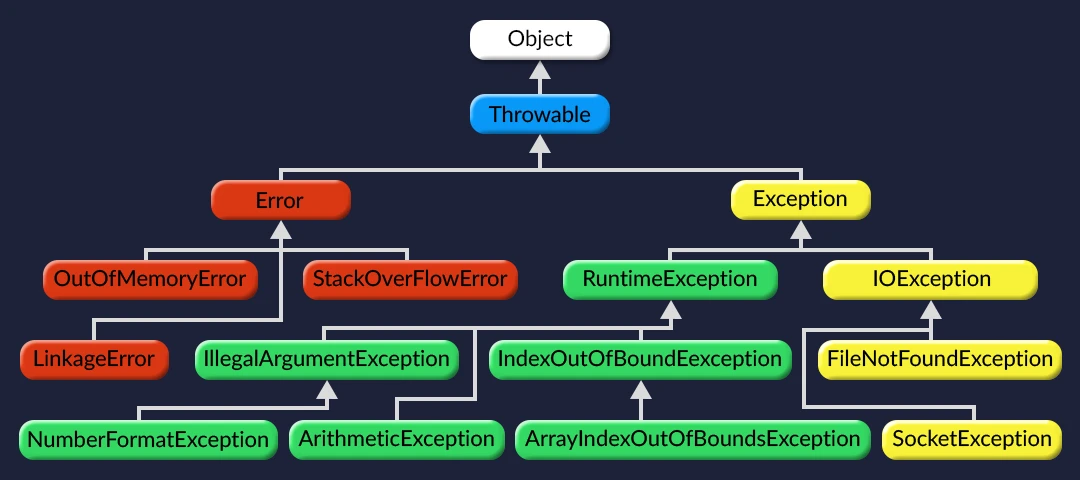
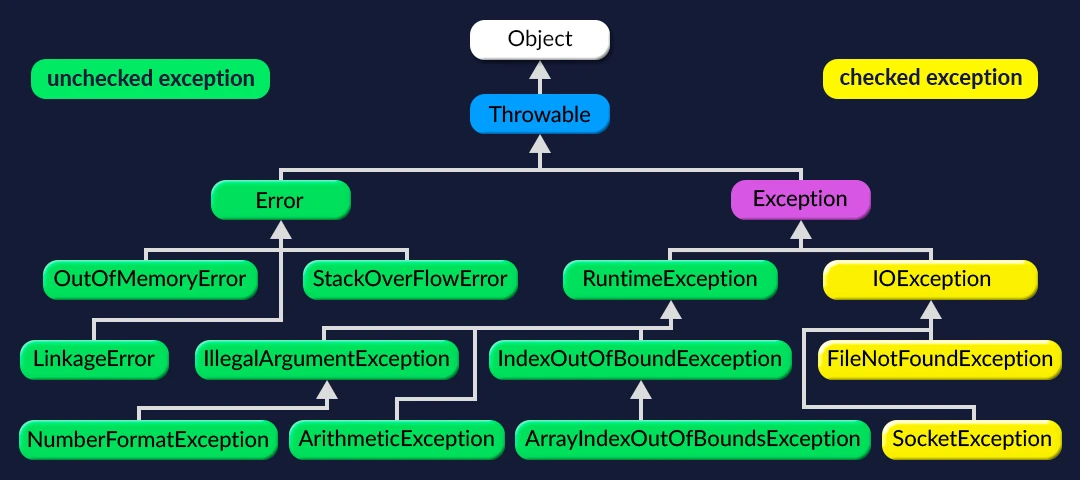
Site updated: 2021-03-08 20:05:41

diff --git a/c2b6c13e/index.html b/c2b6c13e/index.html
@@ -36,8 +36,10 @@
 <meta property="og:description" content="对Java异常学习和研究">
 <meta property="og:locale" content="zh_CN">
 <meta property="og:image" content="https://mihaoyoung.github.io/c2b6c13e/1080.webp">
+<meta property="og:image" content="https://mihaoyoung.github.io/c2b6c13e/1080.webp">
+<meta property="og:image" content="https://mihaoyoung.github.io/c2b6c13e/1080.webp">
 <meta property="article:published_time" content="2021-03-04T14:50:04.000Z">
-<meta property="article:modified_time" content="2021-03-07T16:00:16.038Z">
+<meta property="article:modified_time" content="2021-03-08T12:05:27.657Z">
 <meta property="article:author" content="Mihao">
 <meta property="article:tag" content="Java">
 <meta property="article:tag" content="异常">
@@ -224,7 +226,7 @@
 
       <!--noindex-->
       <section class="post-toc-wrap sidebar-panel">
-          <div class="post-toc animated"><ol class="nav"><li class="nav-item nav-level-1"><a class="nav-link" href="#%E6%A6%82%E5%BF%B5"><span class="nav-number">1.</span> <span class="nav-text">概念</span></a></li><li class="nav-item nav-level-1"><a class="nav-link" href="#%E5%9F%BA%E6%9C%AC%E5%BC%82%E5%B8%B8"><span class="nav-number">2.</span> <span class="nav-text">基本异常</span></a><ol class="nav-child"><li class="nav-item nav-level-2"><a class="nav-link" href="#%E5%BC%82%E5%B8%B8%E5%8F%82%E6%95%B0"><span class="nav-number">2.1.</span> <span class="nav-text">异常参数</span></a></li></ol></li><li class="nav-item nav-level-1"><a class="nav-link" href="#%E6%8D%95%E8%8E%B7%E5%BC%82%E5%B8%B8"><span class="nav-number">3.</span> <span class="nav-text">捕获异常</span></a><ol class="nav-child"><li class="nav-item nav-level-2"><a class="nav-link" href="#try%E5%9D%97"><span class="nav-number">3.1.</span> <span class="nav-text">try块</span></a></li><li class="nav-item nav-level-2"><a class="nav-link" href="#%E5%BC%82%E5%B8%B8%E5%A4%84%E7%90%86%E7%A8%8B%E5%BA%8F"><span class="nav-number">3.2.</span> <span class="nav-text">异常处理程序</span></a></li></ol></li><li class="nav-item nav-level-1"><a class="nav-link" href="#%E5%88%9B%E5%BB%BA%E8%87%AA%E5%AE%9A%E4%B9%89%E5%BC%82%E5%B8%B8"><span class="nav-number">4.</span> <span class="nav-text">创建自定义异常</span></a></li><li class="nav-item nav-level-1"><a class="nav-link" href="#%E5%BC%82%E5%B8%B8%E8%AF%B4%E6%98%8E"><span class="nav-number">5.</span> <span class="nav-text">异常说明</span></a></li><li class="nav-item nav-level-1"><a class="nav-link" href="#%E6%8D%95%E8%8E%B7%E6%89%80%E6%9C%89%E5%BC%82%E5%B8%B8"><span class="nav-number">6.</span> <span class="nav-text">捕获所有异常</span></a><ol class="nav-child"><li class="nav-item nav-level-2"><a class="nav-link" href="#%E6%A0%88%E8%BD%A8%E8%BF%B9"><span class="nav-number">6.1.</span> <span class="nav-text">栈轨迹</span></a></li></ol></li><li class="nav-item nav-level-1"><a class="nav-link" href="#%E6%84%9F%E8%B0%A2"><span class="nav-number">7.</span> <span class="nav-text">感谢</span></a></li></ol></div>
+          <div class="post-toc animated"><ol class="nav"><li class="nav-item nav-level-1"><a class="nav-link" href="#%E6%A6%82%E5%BF%B5"><span class="nav-number">1.</span> <span class="nav-text">概念</span></a></li><li class="nav-item nav-level-1"><a class="nav-link" href="#%E5%9F%BA%E6%9C%AC%E5%BC%82%E5%B8%B8"><span class="nav-number">2.</span> <span class="nav-text">基本异常</span></a><ol class="nav-child"><li class="nav-item nav-level-2"><a class="nav-link" href="#%E5%BC%82%E5%B8%B8%E5%8F%82%E6%95%B0"><span class="nav-number">2.1.</span> <span class="nav-text">异常参数</span></a></li></ol></li><li class="nav-item nav-level-1"><a class="nav-link" href="#%E6%8D%95%E8%8E%B7%E5%BC%82%E5%B8%B8"><span class="nav-number">3.</span> <span class="nav-text">捕获异常</span></a><ol class="nav-child"><li class="nav-item nav-level-2"><a class="nav-link" href="#try%E5%9D%97"><span class="nav-number">3.1.</span> <span class="nav-text">try块</span></a></li><li class="nav-item nav-level-2"><a class="nav-link" href="#%E5%BC%82%E5%B8%B8%E5%A4%84%E7%90%86%E7%A8%8B%E5%BA%8F"><span class="nav-number">3.2.</span> <span class="nav-text">异常处理程序</span></a></li></ol></li><li class="nav-item nav-level-1"><a class="nav-link" href="#%E5%88%9B%E5%BB%BA%E8%87%AA%E5%AE%9A%E4%B9%89%E5%BC%82%E5%B8%B8"><span class="nav-number">4.</span> <span class="nav-text">创建自定义异常</span></a></li><li class="nav-item nav-level-1"><a class="nav-link" href="#%E5%BC%82%E5%B8%B8%E8%AF%B4%E6%98%8E"><span class="nav-number">5.</span> <span class="nav-text">异常说明</span></a></li><li class="nav-item nav-level-1"><a class="nav-link" href="#%E6%8D%95%E8%8E%B7%E6%89%80%E6%9C%89%E5%BC%82%E5%B8%B8"><span class="nav-number">6.</span> <span class="nav-text">捕获所有异常</span></a><ol class="nav-child"><li class="nav-item nav-level-2"><a class="nav-link" href="#%E6%A0%88%E8%BD%A8%E8%BF%B9"><span class="nav-number">6.1.</span> <span class="nav-text">栈轨迹</span></a></li><li class="nav-item nav-level-2"><a class="nav-link" href="#%E9%87%8D%E6%96%B0%E6%8A%9B%E5%87%BA%E5%BC%82%E5%B8%B8"><span class="nav-number">6.2.</span> <span class="nav-text">重新抛出异常</span></a></li><li class="nav-item nav-level-2"><a class="nav-link" href="#%E5%BC%82%E5%B8%B8%E9%93%BE"><span class="nav-number">6.3.</span> <span class="nav-text">异常链</span></a></li></ol></li><li class="nav-item nav-level-1"><a class="nav-link" href="#%E6%A0%87%E5%87%86%E5%BC%82%E5%B8%B8"><span class="nav-number">7.</span> <span class="nav-text">标准异常</span></a></li><li class="nav-item nav-level-1"><a class="nav-link" href="#finally"><span class="nav-number">8.</span> <span class="nav-text">finally</span></a></li><li class="nav-item nav-level-1"><a class="nav-link" href="#%E6%9E%84%E9%80%A0%E5%99%A8"><span class="nav-number">9.</span> <span class="nav-text">构造器</span></a></li><li class="nav-item nav-level-1"><a class="nav-link" href="#%E5%BC%82%E5%B8%B8%E5%8C%B9%E9%85%8D"><span class="nav-number">10.</span> <span class="nav-text">异常匹配</span></a></li><li class="nav-item nav-level-1"><a class="nav-link" href="#%E6%84%9F%E8%B0%A2"><span class="nav-number">11.</span> <span class="nav-text">感谢</span></a></li></ol></div>
       </section>
       <!--/noindex-->
 
@@ -357,7 +359,7 @@
           <i class="far fa-calendar-check"></i>
         </span>
         <span class="post-meta-item-text">更新于</span>
-        <time title="修改时间：2021-03-08 00:00:16" itemprop="dateModified" datetime="2021-03-08T00:00:16+08:00">2021-03-08</time>
+        <time title="修改时间：2021-03-08 20:05:27" itemprop="dateModified" datetime="2021-03-08T20:05:27+08:00">2021-03-08</time>
       </span>
     <span class="post-meta-item">
       <span class="post-meta-item-icon">
@@ -390,14 +392,14 @@
         <i class="far fa-file-word"></i>
       </span>
       <span class="post-meta-item-text">本文字数：</span>
-      <span>3.7k</span>
+      <span>6.9k</span>
     </span>
     <span class="post-meta-item" title="阅读时长">
       <span class="post-meta-item-icon">
         <i class="far fa-clock"></i>
       </span>
       <span class="post-meta-item-text">阅读时长 &asymp;</span>
-      <span>3 分钟</span>
+      <span>6 分钟</span>
     </span>
 </div>
 
@@ -455,9 +457,41 @@
 <figure class="highlight java"><table><tr><td class="gutter"><pre><span class="line">1</span><br><span class="line">2</span><br><span class="line">3</span><br><span class="line">4</span><br><span class="line">5</span><br><span class="line">6</span><br><span class="line">7</span><br><span class="line">8</span><br><span class="line">9</span><br><span class="line">10</span><br><span class="line">11</span><br><span class="line">12</span><br><span class="line">13</span><br><span class="line">14</span><br><span class="line">15</span><br><span class="line">16</span><br><span class="line">17</span><br><span class="line">18</span><br><span class="line">19</span><br><span class="line">20</span><br><span class="line">21</span><br><span class="line">22</span><br><span class="line">23</span><br><span class="line">24</span><br><span class="line">25</span><br><span class="line">26</span><br></pre></td><td class="code"><pre><span class="line"><span class="keyword">public</span> <span class="class"><span class="keyword">class</span> <span class="title">exception2</span> </span>&#123;</span><br><span class="line">    <span class="function"><span class="keyword">static</span> <span class="keyword">void</span> <span class="title">f</span><span class="params">()</span></span>&#123;</span><br><span class="line">        <span class="keyword">try</span> &#123;</span><br><span class="line">            <span class="keyword">throw</span> <span class="keyword">new</span> Exception();</span><br><span class="line">        &#125; <span class="keyword">catch</span> (Exception e) &#123;</span><br><span class="line">            <span class="keyword">for</span>(StackTraceElement ste : e.getStackTrace())</span><br><span class="line">                System.out.println(ste.getMethodName());</span><br><span class="line">        &#125;</span><br><span class="line">    &#125;</span><br><span class="line">    <span class="function"><span class="keyword">static</span> <span class="keyword">void</span> <span class="title">g</span><span class="params">()</span></span>&#123;</span><br><span class="line">        f();</span><br><span class="line">    &#125;</span><br><span class="line">    <span class="function"><span class="keyword">static</span> <span class="keyword">void</span> <span class="title">h</span><span class="params">()</span></span>&#123;</span><br><span class="line">        g();</span><br><span class="line">    &#125;</span><br><span class="line"></span><br><span class="line">    <span class="function"><span class="keyword">public</span> <span class="keyword">static</span> <span class="keyword">void</span> <span class="title">main</span><span class="params">(String[] args)</span> </span>&#123;</span><br><span class="line">        f();</span><br><span class="line">        System.out.println(<span class="string">&quot;--------------------&quot;</span>);</span><br><span class="line">        g();</span><br><span class="line">        System.out.println(<span class="string">&quot;--------------------&quot;</span>);</span><br><span class="line">        h();</span><br><span class="line">    &#125;</span><br><span class="line"></span><br><span class="line">&#125;</span><br><span class="line"></span><br></pre></td></tr></table></figure>
 <p>输出</p>
 <figure class="highlight text"><table><tr><td class="gutter"><pre><span class="line">1</span><br><span class="line">2</span><br><span class="line">3</span><br><span class="line">4</span><br><span class="line">5</span><br><span class="line">6</span><br><span class="line">7</span><br><span class="line">8</span><br><span class="line">9</span><br><span class="line">10</span><br><span class="line">11</span><br></pre></td><td class="code"><pre><span class="line">f</span><br><span class="line">main</span><br><span class="line">--------------------</span><br><span class="line">f</span><br><span class="line">g</span><br><span class="line">main</span><br><span class="line">--------------------</span><br><span class="line">f</span><br><span class="line">g</span><br><span class="line">h</span><br><span class="line">main</span><br></pre></td></tr></table></figure>
+<h2 id="重新抛出异常"><a href="#重新抛出异常" class="headerlink" title="重新抛出异常"></a>重新抛出异常</h2><p>重抛异常会将异常抛给<strong>上一级</strong>环境，同try块的后续catch语句将不会被执行。</p>
+<figure class="highlight java"><table><tr><td class="gutter"><pre><span class="line">1</span><br><span class="line">2</span><br><span class="line">3</span><br></pre></td><td class="code"><pre><span class="line"><span class="keyword">catch</span>(Exception e)&#123;</span><br><span class="line">    <span class="keyword">throw</span> e;</span><br><span class="line">&#125;</span><br></pre></td></tr></table></figure>
+<p>异常对象的所有信息都被<strong>保存</strong>，因此，上一级环境所捕获的异常包含这个异常对象的<strong>所有信息</strong></p>
+<p>对于重新抛出的异常对象，<code>printStackTrace()</code>显示的仍是<strong>原来异常抛出点</strong>的调用栈信息。</p>
+<p>因此使用<code>fillInStackTrace()</code>更新信息，该方法返回一个<code>Throwable</code>对象，它是通过把当前调用信息填入原来的异常对象而建立的</p>
+<figure class="highlight java"><table><tr><td class="gutter"><pre><span class="line">1</span><br><span class="line">2</span><br><span class="line">3</span><br><span class="line">4</span><br><span class="line">5</span><br><span class="line">6</span><br><span class="line">7</span><br><span class="line">8</span><br><span class="line">9</span><br><span class="line">10</span><br><span class="line">11</span><br><span class="line">12</span><br><span class="line">13</span><br><span class="line">14</span><br><span class="line">15</span><br><span class="line">16</span><br><span class="line">17</span><br><span class="line">18</span><br><span class="line">19</span><br><span class="line">20</span><br><span class="line">21</span><br><span class="line">22</span><br><span class="line">23</span><br><span class="line">24</span><br><span class="line">25</span><br><span class="line">26</span><br><span class="line">27</span><br><span class="line">28</span><br><span class="line">29</span><br><span class="line">30</span><br><span class="line">31</span><br><span class="line">32</span><br><span class="line">33</span><br><span class="line">34</span><br><span class="line">35</span><br><span class="line">36</span><br><span class="line">37</span><br><span class="line">38</span><br><span class="line">39</span><br><span class="line">40</span><br><span class="line">41</span><br></pre></td><td class="code"><pre><span class="line"><span class="keyword">public</span> <span class="class"><span class="keyword">class</span> <span class="title">rethrowing</span> </span>&#123;</span><br><span class="line"></span><br><span class="line">    <span class="function"><span class="keyword">public</span> <span class="keyword">static</span> <span class="keyword">void</span> <span class="title">f</span><span class="params">()</span> <span class="keyword">throws</span> Exception</span>&#123;</span><br><span class="line">        System.out.println(<span class="string">&quot;exception from f()&quot;</span>);</span><br><span class="line">        <span class="keyword">throw</span> <span class="keyword">new</span> Exception(<span class="string">&quot;thrown from f()&quot;</span>);</span><br><span class="line">    &#125;</span><br><span class="line">    <span class="function"><span class="keyword">public</span> <span class="keyword">static</span> <span class="keyword">void</span> <span class="title">g</span><span class="params">()</span> <span class="keyword">throws</span> Exception</span>&#123;</span><br><span class="line">        <span class="keyword">try</span> &#123;</span><br><span class="line">            f();</span><br><span class="line">        &#125;<span class="keyword">catch</span> (Exception e)&#123;</span><br><span class="line">            System.out.println(<span class="string">&quot;g(), e.printStackTrace()&quot;</span>);</span><br><span class="line">            e.printStackTrace(System.out);</span><br><span class="line">            <span class="keyword">throw</span> e;</span><br><span class="line">        &#125;</span><br><span class="line">    &#125;</span><br><span class="line">    <span class="function"><span class="keyword">public</span> <span class="keyword">static</span> <span class="keyword">void</span> <span class="title">h</span><span class="params">()</span> <span class="keyword">throws</span> Exception</span>&#123;</span><br><span class="line">        <span class="keyword">try</span> &#123;</span><br><span class="line">            f();</span><br><span class="line">        &#125;<span class="keyword">catch</span> (Exception e)&#123;</span><br><span class="line">            System.out.println(<span class="string">&quot;h(), e.printStackTrace()&quot;</span>);</span><br><span class="line">            e.printStackTrace(System.out);</span><br><span class="line">            <span class="keyword">throw</span> (Exception)e.fillInStackTrace();</span><br><span class="line">        &#125;</span><br><span class="line">    &#125;</span><br><span class="line"></span><br><span class="line">    <span class="function"><span class="keyword">public</span> <span class="keyword">static</span> <span class="keyword">void</span> <span class="title">main</span><span class="params">(String[] args)</span> </span>&#123;</span><br><span class="line">        <span class="keyword">try</span> &#123;</span><br><span class="line">            g();</span><br><span class="line">        &#125;<span class="keyword">catch</span> (Exception e)&#123;</span><br><span class="line">            System.out.println(<span class="string">&quot;mian: printStackTrace()&quot;</span>);</span><br><span class="line">            e.printStackTrace(System.out);</span><br><span class="line">        &#125;</span><br><span class="line">        <span class="keyword">try</span>&#123;</span><br><span class="line">            h();</span><br><span class="line">        &#125;<span class="keyword">catch</span>(Exception e)&#123;</span><br><span class="line">            System.out.println(<span class="string">&quot;main: printStackTrace&quot;</span>);</span><br><span class="line">            e.printStackTrace(System.out);</span><br><span class="line">        &#125;</span><br><span class="line">    &#125;</span><br><span class="line">&#125;</span><br><span class="line"></span><br></pre></td></tr></table></figure>
+<p>输出</p>
+<figure class="highlight text"><table><tr><td class="gutter"><pre><span class="line">1</span><br><span class="line">2</span><br><span class="line">3</span><br><span class="line">4</span><br><span class="line">5</span><br><span class="line">6</span><br><span class="line">7</span><br><span class="line">8</span><br><span class="line">9</span><br><span class="line">10</span><br><span class="line">11</span><br><span class="line">12</span><br><span class="line">13</span><br><span class="line">14</span><br><span class="line">15</span><br><span class="line">16</span><br><span class="line">17</span><br><span class="line">18</span><br><span class="line">19</span><br><span class="line">20</span><br><span class="line">21</span><br><span class="line">22</span><br><span class="line">23</span><br></pre></td><td class="code"><pre><span class="line">exception from f()</span><br><span class="line">g(), e.printStackTrace()</span><br><span class="line">java.lang.Exception: thrown from f()</span><br><span class="line">	at rethrowing.f(rethrowing.java:5)</span><br><span class="line">	at rethrowing.g(rethrowing.java:9)</span><br><span class="line">	at rethrowing.main(rethrowing.java:28)</span><br><span class="line">mian: printStackTrace()</span><br><span class="line">java.lang.Exception: thrown from f()</span><br><span class="line">	at rethrowing.f(rethrowing.java:5)</span><br><span class="line">	at rethrowing.g(rethrowing.java:9)</span><br><span class="line">	at rethrowing.main(rethrowing.java:28)</span><br><span class="line">	</span><br><span class="line">//有更新</span><br><span class="line">exception from f()</span><br><span class="line">h(), e.printStackTrace()</span><br><span class="line">java.lang.Exception: thrown from f()</span><br><span class="line">	at rethrowing.f(rethrowing.java:5)</span><br><span class="line">	at rethrowing.h(rethrowing.java:18)</span><br><span class="line">	at rethrowing.main(rethrowing.java:34)</span><br><span class="line">main: printStackTrace</span><br><span class="line">java.lang.Exception: thrown from f()</span><br><span class="line">	at rethrowing.h(rethrowing.java:22)</span><br><span class="line">	at rethrowing.main(rethrowing.java:34)</span><br></pre></td></tr></table></figure>
+<h2 id="异常链"><a href="#异常链" class="headerlink" title="异常链"></a>异常链</h2><p>异常链：在捕获一个异常后抛出另一个异常，并且把原始异常的信息保存下来</p>
+<p>构造器接受<code>cause</code>对象作为参数，适用于<code>Error</code>,<code>Exception</code>,<code>RuntimeException</code>.</p>
+<p>其它类型的异常类，使用<code>initCause()</code>方法</p>
+<h1 id="标准异常"><a href="#标准异常" class="headerlink" title="标准异常"></a>标准异常</h1><p><code>Error</code>表示编译时的系统错误</p>
+<p><code>Exception</code>是可以抛出的基本类型</p>
+<p><img src="/c2b6c13e/1080.webp"></p>
+<p>不接受检查的异常，如<code>RuntimeException</code>类，这种异常会被<strong>自动捕获</strong></p>
+<p><img src="/c2b6c13e/1080.webp"></p>
+<h1 id="finally"><a href="#finally" class="headerlink" title="finally"></a>finally</h1><p>无论异常是否被抛出，<code>finally</code>始终被执行</p>
+<figure class="highlight java"><table><tr><td class="gutter"><pre><span class="line">1</span><br><span class="line">2</span><br><span class="line">3</span><br><span class="line">4</span><br><span class="line">5</span><br><span class="line">6</span><br><span class="line">7</span><br></pre></td><td class="code"><pre><span class="line"><span class="keyword">try</span>&#123;</span><br><span class="line">    </span><br><span class="line">&#125;<span class="keyword">catch</span>(Exception e)&#123;</span><br><span class="line"></span><br><span class="line">&#125;<span class="keyword">finally</span>&#123;</span><br><span class="line">    </span><br><span class="line">&#125;</span><br></pre></td></tr></table></figure>
+<p>即使异常没有当前异常处理程序捕获，异常处理机制也会在跳到更高一层的异常处理程序之前，执行<code>finally</code>语句</p>
+<figure class="highlight java"><table><tr><td class="gutter"><pre><span class="line">1</span><br><span class="line">2</span><br><span class="line">3</span><br><span class="line">4</span><br><span class="line">5</span><br><span class="line">6</span><br><span class="line">7</span><br><span class="line">8</span><br><span class="line">9</span><br><span class="line">10</span><br></pre></td><td class="code"><pre><span class="line"><span class="keyword">try</span>&#123;</span><br><span class="line">    <span class="keyword">try</span>&#123;</span><br><span class="line">        <span class="comment">// 该层没有异常处理程序</span></span><br><span class="line">        <span class="keyword">throw</span> <span class="keyword">new</span> Exception();	<span class="comment">// 会跳到上一层异常处理程序</span></span><br><span class="line">    &#125;<span class="keyword">finally</span>&#123;</span><br><span class="line">        </span><br><span class="line">    &#125;</span><br><span class="line">&#125;<span class="keyword">catch</span>(Exception e)&#123;</span><br><span class="line"><span class="comment">// 该异常处理程序执行之前，上方的finally语句会被执行</span></span><br><span class="line">&#125;</span><br></pre></td></tr></table></figure>
+<p><code>finally</code>即使在<code>return</code>之后，依然会被执行</p>
+<figure class="highlight java"><table><tr><td class="gutter"><pre><span class="line">1</span><br><span class="line">2</span><br><span class="line">3</span><br><span class="line">4</span><br><span class="line">5</span><br></pre></td><td class="code"><pre><span class="line"><span class="keyword">try</span>&#123;</span><br><span class="line">    <span class="keyword">return</span>;</span><br><span class="line">&#125;<span class="keyword">finally</span>&#123;</span><br><span class="line">    <span class="comment">// 会被执行</span></span><br><span class="line">&#125;</span><br></pre></td></tr></table></figure>
+<h1 id="构造器"><a href="#构造器" class="headerlink" title="构造器"></a>构造器</h1><p>基本原则：每一次构造新对象，都应包含在其<strong>try-finally</strong>语句块中，并且每一个对象构造之后跟随一个<strong>try-finally</strong>语句块一确保成功清理对象</p>
+<figure class="highlight java"><table><tr><td class="gutter"><pre><span class="line">1</span><br><span class="line">2</span><br><span class="line">3</span><br><span class="line">4</span><br><span class="line">5</span><br><span class="line">6</span><br><span class="line">7</span><br><span class="line">8</span><br><span class="line">9</span><br><span class="line">10</span><br><span class="line">11</span><br><span class="line">12</span><br><span class="line">13</span><br></pre></td><td class="code"><pre><span class="line"><span class="keyword">try</span>&#123;</span><br><span class="line">	Person p = <span class="keyword">new</span> Person;</span><br><span class="line">    <span class="keyword">try</span>&#123;</span><br><span class="line">		</span><br><span class="line">    &#125;<span class="keyword">catch</span>(Exception e)&#123;</span><br><span class="line">        </span><br><span class="line">    &#125;<span class="keyword">finally</span>&#123;</span><br><span class="line">        <span class="comment">//清理对象，假设dispose()已在Person类实现</span></span><br><span class="line">        p.dispose();</span><br><span class="line">    &#125;</span><br><span class="line">&#125;<span class="keyword">catch</span>(Exception e)&#123;</span><br><span class="line">    </span><br><span class="line">&#125;</span><br></pre></td></tr></table></figure>
+<p>如果，p对象构造失败，将进入<strong>外部</strong>catch语句，因此，dispose()方法<strong>不会调用</strong>。</p>
+<p>如果构造成功，为了保证对象能够被清理，在<strong>构造之后立即创建一个try块</strong></p>
+<p>在这种方法中，finally只有在p对象构造成功才会执行</p>
+<h1 id="异常匹配"><a href="#异常匹配" class="headerlink" title="异常匹配"></a>异常匹配</h1><p>派生类的对象也可以匹配基类的处理程序</p>
+<figure class="highlight java"><table><tr><td class="gutter"><pre><span class="line">1</span><br><span class="line">2</span><br><span class="line">3</span><br><span class="line">4</span><br><span class="line">5</span><br><span class="line">6</span><br><span class="line">7</span><br><span class="line">8</span><br><span class="line">9</span><br><span class="line">10</span><br><span class="line">11</span><br><span class="line">12</span><br></pre></td><td class="code"><pre><span class="line"><span class="class"><span class="keyword">class</span> <span class="title">Exception1</span> <span class="keyword">extends</span> <span class="title">Exception</span></span>&#123;&#125;</span><br><span class="line"><span class="class"><span class="keyword">class</span> <span class="title">Exception2</span> <span class="keyword">extends</span> <span class="title">Exception1</span></span>&#123;&#125;</span><br><span class="line"></span><br><span class="line"><span class="keyword">public</span> <span class="class"><span class="keyword">class</span> <span class="title">test2</span> </span>&#123;</span><br><span class="line">    <span class="function"><span class="keyword">public</span> <span class="keyword">static</span> <span class="keyword">void</span> <span class="title">main</span><span class="params">(String[] args)</span> </span>&#123;</span><br><span class="line">        <span class="keyword">try</span>&#123;</span><br><span class="line">            <span class="keyword">throw</span> <span class="keyword">new</span> Exception2();</span><br><span class="line">        &#125;<span class="keyword">catch</span> (Exception1 e)&#123;</span><br><span class="line">            System.out.println(<span class="string">&quot;捕获异常Exception1&quot;</span>);</span><br><span class="line">        &#125;</span><br><span class="line">    &#125;</span><br><span class="line">&#125;</span><br></pre></td></tr></table></figure>
+
+
 
 
 <h1 id="感谢"><a href="#感谢" class="headerlink" title="感谢"></a>感谢</h1><p>《Java编程思想》</p>
+<p><a target="_blank" rel="noopener" href="https://codegym.cc/groups/posts/28-exceptions-checked-unchecked-and-custom">Java的异常</a></p>
 
     </div>
 
@@ -558,14 +592,14 @@
       <i class="fa fa-chart-line"></i>
     </span>
       <span>站点总字数：</span>
-    <span title="站点总字数">30k</span>
+    <span title="站点总字数">33k</span>
   </span>
   <span class="post-meta-item">
     <span class="post-meta-item-icon">
       <i class="fa fa-coffee"></i>
     </span>
       <span>站点阅读时长 &asymp;</span>
-    <span title="站点阅读时长">27 分钟</span>
+    <span title="站点阅读时长">30 分钟</span>
   </span>
 </div><script color="242,129,214" opacity="0.8" zIndex="-1" count="120" src="https://cdn.jsdelivr.net/npm/canvas-nest.js@1/dist/canvas-nest.js"></script>
 

diff --git a/index.html b/index.html
@@ -566,7 +566,7 @@
           <i class="far fa-calendar-check"></i>
         </span>
         <span class="post-meta-item-text">更新于</span>
-        <time title="修改时间：2021-03-08 00:00:16" itemprop="dateModified" datetime="2021-03-08T00:00:16+08:00">2021-03-08</time>
+        <time title="修改时间：2021-03-08 20:05:27" itemprop="dateModified" datetime="2021-03-08T20:05:27+08:00">2021-03-08</time>
       </span>
     <span class="post-meta-item">
       <span class="post-meta-item-icon">
@@ -599,14 +599,14 @@
         <i class="far fa-file-word"></i>
       </span>
       <span class="post-meta-item-text">本文字数：</span>
-      <span>3.7k</span>
+      <span>6.9k</span>
     </span>
     <span class="post-meta-item" title="阅读时长">
       <span class="post-meta-item-icon">
         <i class="far fa-clock"></i>
       </span>
       <span class="post-meta-item-text">阅读时长 &asymp;</span>
-      <span>3 分钟</span>
+      <span>6 分钟</span>
     </span>
 </div>
 
@@ -1496,14 +1496,14 @@
       <i class="fa fa-chart-line"></i>
     </span>
       <span>站点总字数：</span>
-    <span title="站点总字数">30k</span>
+    <span title="站点总字数">33k</span>
   </span>
   <span class="post-meta-item">
     <span class="post-meta-item-icon">
       <i class="fa fa-coffee"></i>
     </span>
       <span>站点阅读时长 &asymp;</span>
-    <span title="站点阅读时长">27 分钟</span>
+    <span title="站点阅读时长">30 分钟</span>
   </span>
 </div><script color="242,129,214" opacity="0.8" zIndex="-1" count="120" src="https://cdn.jsdelivr.net/npm/canvas-nest.js@1/dist/canvas-nest.js"></script>
 

diff --git a/24268d51/index.html b/24268d51/index.html
@@ -684,14 +684,14 @@
       <i class="fa fa-chart-line"></i>
     </span>
       <span>站点总字数：</span>
-    <span title="站点总字数">30k</span>
+    <span title="站点总字数">33k</span>
   </span>
   <span class="post-meta-item">
     <span class="post-meta-item-icon">
       <i class="fa fa-coffee"></i>
     </span>
       <span>站点阅读时长 &asymp;</span>
-    <span title="站点阅读时长">27 分钟</span>
+    <span title="站点阅读时长">30 分钟</span>
   </span>
 </div><script color="242,129,214" opacity="0.8" zIndex="-1" count="120" src="https://cdn.jsdelivr.net/npm/canvas-nest.js@1/dist/canvas-nest.js"></script>
 

diff --git a/2af416/index.html b/2af416/index.html
@@ -551,14 +551,14 @@
       <i class="fa fa-chart-line"></i>
     </span>
       <span>站点总字数：</span>
-    <span title="站点总字数">30k</span>
+    <span title="站点总字数">33k</span>
   </span>
   <span class="post-meta-item">
     <span class="post-meta-item-icon">
       <i class="fa fa-coffee"></i>
     </span>
       <span>站点阅读时长 &asymp;</span>
-    <span title="站点阅读时长">27 分钟</span>
+    <span title="站点阅读时长">30 分钟</span>
   </span>
 </div><script color="242,129,214" opacity="0.8" zIndex="-1" count="120" src="https://cdn.jsdelivr.net/npm/canvas-nest.js@1/dist/canvas-nest.js"></script>
 

diff --git a/4c5284d4/index.html b/4c5284d4/index.html
@@ -638,14 +638,14 @@
       <i class="fa fa-chart-line"></i>
     </span>
       <span>站点总字数：</span>
-    <span title="站点总字数">30k</span>
+    <span title="站点总字数">33k</span>
   </span>
   <span class="post-meta-item">
     <span class="post-meta-item-icon">
       <i class="fa fa-coffee"></i>
     </span>
       <span>站点阅读时长 &asymp;</span>
-    <span title="站点阅读时长">27 分钟</span>
+    <span title="站点阅读时长">30 分钟</span>
   </span>
 </div><script color="242,129,214" opacity="0.8" zIndex="-1" count="120" src="https://cdn.jsdelivr.net/npm/canvas-nest.js@1/dist/canvas-nest.js"></script>
 

diff --git a/6714d3d6/index.html b/6714d3d6/index.html
@@ -894,14 +894,14 @@
       <i class="fa fa-chart-line"></i>
     </span>
       <span>站点总字数：</span>
-    <span title="站点总字数">30k</span>
+    <span title="站点总字数">33k</span>
   </span>
   <span class="post-meta-item">
     <span class="post-meta-item-icon">
       <i class="fa fa-coffee"></i>
     </span>
       <span>站点阅读时长 &asymp;</span>
-    <span title="站点阅读时长">27 分钟</span>
+    <span title="站点阅读时长">30 分钟</span>
   </span>
 </div><script color="242,129,214" opacity="0.8" zIndex="-1" count="120" src="https://cdn.jsdelivr.net/npm/canvas-nest.js@1/dist/canvas-nest.js"></script>
 

diff --git a/6de462c1/index.html b/6de462c1/index.html
@@ -549,14 +549,14 @@
       <i class="fa fa-chart-line"></i>
     </span>
       <span>站点总字数：</span>
-    <span title="站点总字数">30k</span>
+    <span title="站点总字数">33k</span>
   </span>
   <span class="post-meta-item">
     <span class="post-meta-item-icon">
       <i class="fa fa-coffee"></i>
     </span>
       <span>站点阅读时长 &asymp;</span>
-    <span title="站点阅读时长">27 分钟</span>
+    <span title="站点阅读时长">30 分钟</span>
   </span>
 </div><script color="242,129,214" opacity="0.8" zIndex="-1" count="120" src="https://cdn.jsdelivr.net/npm/canvas-nest.js@1/dist/canvas-nest.js"></script>
 

diff --git a/72510051/index.html b/72510051/index.html
@@ -562,14 +562,14 @@
       <i class="fa fa-chart-line"></i>
     </span>
       <span>站点总字数：</span>
-    <span title="站点总字数">30k</span>
+    <span title="站点总字数">33k</span>
   </span>
   <span class="post-meta-item">
     <span class="post-meta-item-icon">
       <i class="fa fa-coffee"></i>
     </span>
       <span>站点阅读时长 &asymp;</span>
-    <span title="站点阅读时长">27 分钟</span>
+    <span title="站点阅读时长">30 分钟</span>
   </span>
 </div><script color="242,129,214" opacity="0.8" zIndex="-1" count="120" src="https://cdn.jsdelivr.net/npm/canvas-nest.js@1/dist/canvas-nest.js"></script>
 

diff --git a/823759cb/index.html b/823759cb/index.html
@@ -532,14 +532,14 @@
       <i class="fa fa-chart-line"></i>
     </span>
       <span>站点总字数：</span>
-    <span title="站点总字数">30k</span>
+    <span title="站点总字数">33k</span>
   </span>
   <span class="post-meta-item">
     <span class="post-meta-item-icon">
       <i class="fa fa-coffee"></i>
     </span>
       <span>站点阅读时长 &asymp;</span>
-    <span title="站点阅读时长">27 分钟</span>
+    <span title="站点阅读时长">30 分钟</span>
   </span>
 </div><script color="242,129,214" opacity="0.8" zIndex="-1" count="120" src="https://cdn.jsdelivr.net/npm/canvas-nest.js@1/dist/canvas-nest.js"></script>
 

diff --git a/91a709bb/index.html b/91a709bb/index.html
@@ -616,14 +616,14 @@
       <i class="fa fa-chart-line"></i>
     </span>
       <span>站点总字数：</span>
-    <span title="站点总字数">30k</span>
+    <span title="站点总字数">33k</span>
   </span>
   <span class="post-meta-item">
     <span class="post-meta-item-icon">
       <i class="fa fa-coffee"></i>
     </span>
       <span>站点阅读时长 &asymp;</span>
-    <span title="站点阅读时长">27 分钟</span>
+    <span title="站点阅读时长">30 分钟</span>
   </span>
 </div><script color="242,129,214" opacity="0.8" zIndex="-1" count="120" src="https://cdn.jsdelivr.net/npm/canvas-nest.js@1/dist/canvas-nest.js"></script>
 

diff --git a/archives/2021/02/index.html b/archives/2021/02/index.html
@@ -485,14 +485,14 @@
       <i class="fa fa-chart-line"></i>
     </span>
       <span>站点总字数：</span>
-    <span title="站点总字数">30k</span>
+    <span title="站点总字数">33k</span>
   </span>
   <span class="post-meta-item">
     <span class="post-meta-item-icon">
       <i class="fa fa-coffee"></i>
     </span>
       <span>站点阅读时长 &asymp;</span>
-    <span title="站点阅读时长">27 分钟</span>
+    <span title="站点阅读时长">30 分钟</span>
   </span>
 </div><script color="242,129,214" opacity="0.8" zIndex="-1" count="120" src="https://cdn.jsdelivr.net/npm/canvas-nest.js@1/dist/canvas-nest.js"></script>
 

diff --git a/archives/2021/03/index.html b/archives/2021/03/index.html
@@ -485,14 +485,14 @@
       <i class="fa fa-chart-line"></i>
     </span>
       <span>站点总字数：</span>
-    <span title="站点总字数">30k</span>
+    <span title="站点总字数">33k</span>
   </span>
   <span class="post-meta-item">
     <span class="post-meta-item-icon">
       <i class="fa fa-coffee"></i>
     </span>
       <span>站点阅读时长 &asymp;</span>
-    <span title="站点阅读时长">27 分钟</span>
+    <span title="站点阅读时长">30 分钟</span>
   </span>
 </div><script color="242,129,214" opacity="0.8" zIndex="-1" count="120" src="https://cdn.jsdelivr.net/npm/canvas-nest.js@1/dist/canvas-nest.js"></script>
 
